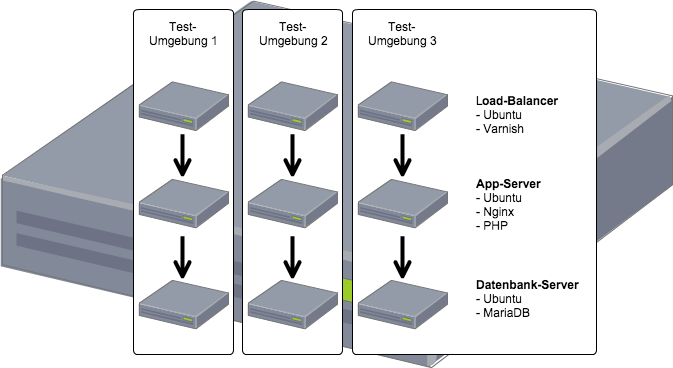
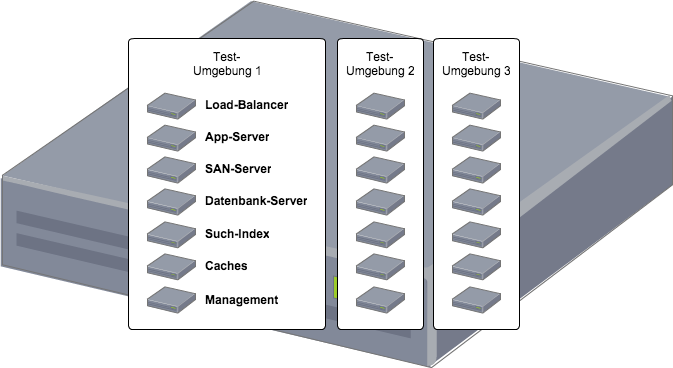
Zwischenstand

diff --git a/abschnitte/07_Konzeption.tex b/abschnitte/07_Konzeption.tex
@@ -1,10 +1,10 @@
 \section{Konzeption}
 
-Nachfolgend soll nun zunächst die aktuelle Produktiv- und die aktuellen Testumgebungen beschrieben werden. Anschließend soll eine Betriebsumgebung definiert werden, die im Rahmen dieser Arbeit die Lösbarkeit der bisherigen Probleme mit Hilfe der Virtualisierungstechnologien zeigen kann. Zudem sollen die eingangs in der Problemstellung angedeuteten Probleme bei der Ausführung von Tests genauer erläutert und durch eine stark vereinfachte Anwendung inklusive entsprechend vereinfachter Tests dargestellt werden. Anschließend kann dann für die beiden Produkte VirtualBox und Docker ein Konzept erarbeitet werden, wie sich diese Umgebung mit Hilfe der entsprechenden Technologie virtualisieren lässt, um damit die zuvor definierte Anwendung und ihre Tests erfolgreich auszuführen.
+Nachfolgend soll nun zunächst die aktuelle Produktiv- und die aktuellen Testumgebungen beschrieben werden. Anschließend soll ein neuer Ansatz für eine Testumgebung auf Basis einer Virtualisierung definiert werden, mit dessen Hilfe sich später eine konkrete Implementierung umsetzen lässt. Zudem sollen die eingangs in der Problemstellung angedeuteten Probleme aufgrund fehlender isolierter Testumgebungen bei der Ausführung von Tests genauer erläutert und durch die Definition eines entsprechenden Beispieltests dargestellt werden. Dieser Test soll auch als Grundlage für eine Evaluierung der konkreten Implementierungen in Bezug auf ihre Ausführungsdauer dienen.
 
 \subsection{Beschreibung der aktuellen Produktivumgebung}
 
-Die Betriebsumgebung die von der Pixelhouse GmbH in Produktion eingesetzt wird und täglich mehrere Millionen Anfragen von Besuchern der Webseite chefkoch.de beantwortet, besteht aus einer Vielzahl von Komponenten und Diensten. Bis auf die unternehmensweite Groupwarelösung (E-Mails, Kalender, etc.), die bereits als mehrere Dienste in Docker-Containern virtualisert wird, handelt es sich dabei um echte Maschinen, die jeweils auf ihrer eigenen Hardware laufen.
+Die Betriebsumgebung, die von der Pixelhouse GmbH in Produktion eingesetzt wird, besteht aus einer Vielzahl von Komponenten und Diensten. Diese Komponenten werden bislang jeweils auf echter Serverhardware betrieben.
 
 \begin{figure}[!ht]
   \begin{center}
@@ -13,7 +13,7 @@ Die Betriebsumgebung die von der Pixelhouse GmbH in Produktion eingesetzt wird u
   \end{center}
 \end{figure}
 
-Im Zentrum der Infrastruktur stehen insgesamt drei Appserver. Bei jedem Appserver handelt es sich dabei um einen Ubuntu-Server, auf dem der Webserver Nginx und der Script-Interpreter PHP ausgeführt wird, um HTTP-Anfragen mit Hilfe statischer oder dynamische Inhalte zu beantworten. Für die langfristige Datenhaltung greifen die PHP-Scripte dabei auf zwei Datenbankserver (Master und Slave) zu, auf denen ebenfalls Ubuntu und der Mysql-Fork MariaDB installiert sind. Für kurzfristige und hochverfügbare Datencaches gibt es zwei Ubuntu-Server (Master und Slave) auf denen der Key-Value-Store Redis läuft. Zudem wird auf weiteren zwei Ubuntu-Servern (Master und Slave) ein Such-Index mit Hilfe der Suchmaschine Solr betrieben, die als Java-Anwendung in einem Tomcat-Application-Server läuft. Binärdateien (Videos, Bilder, Dokumente, etc.) werden auf insgesamt 7 weiteren Servern redundant abgelegt. Damit die Appserver und die SAN-Server von außen unter einheitlichen HTTP-Adressen erreichbar sind und sich die Last gleichmäßig auf die einzelnen Server verteilt, landen sämtliche HTTP-Anfragen per DNS-Round-Robin zunächst bei einem von zwei Ubuntu-Servern, auf denen Varnish als Load-Balancer installiert ist. Diese nehmen die Anfragen entgegen und verteilen sie an die dahinter liegenden Server. Varnish ist zudem ein effizienter HTTP-Cache, der in der Lage ist, die von den App- oder SAN-Servern zurückgelieferten Antworten zu cachen und bei erneuter Anfrage selbst auszuliefern. Zu guter Letzt gibt es noch drei weitere Server, auf denen Software für die Administration und das Reporting läuft.
+Im Zentrum der Infrastruktur stehen insgesamt drei Appserver. Bei jedem Appserver handelt es sich dabei um einen Ubuntu-Server, auf dem der Webserver Nginx und der Script-Interpreter PHP ausgeführt wird, um HTTP-Anfragen mit Hilfe statischer oder dynamische Inhalte zu beantworten. Auf den App-Servern läuft somit auch die in PHP geschriebene Anwendung selbst. Für die langfristige Datenhaltung greifen die PHP-Scripte dabei auf zwei Datenbankserver (Master und Slave) zu, auf denen ebenfalls Ubuntu und der Mysql-Fork MariaDB installiert sind. Für kurzfristige und hochverfügbare Datencaches gibt es zwei Ubuntu-Server (Master und Slave) auf denen der Key-Value-Store Redis läuft. Zudem wird auf weiteren zwei Ubuntu-Servern (Master und Slave) ein Such-Index mit Hilfe der Suchmaschine Solr betrieben, die als Java-Anwendung in einem Tomcat-Application-Server läuft. Binärdateien (Videos, Bilder, Dokumente, etc.) werden auf insgesamt 7 weiteren Servern redundant abgelegt. Damit die Appserver und die SAN-Server von außen unter einheitlichen HTTP-Adressen erreichbar sind und sich die Last gleichmäßig auf die einzelnen Server verteilt, landen sämtliche HTTP-Anfragen per DNS-Round-Robin zunächst bei einem von zwei Ubuntu-Servern, auf denen Varnish als Load-Balancer installiert ist. Diese nehmen die Anfragen entgegen und verteilen sie an die dahinter liegenden Server. Varnish ist zudem ein effizienter HTTP-Cache, der in der Lage ist, die von den App- oder SAN-Servern zurückgelieferten Antworten zu cachen und bei erneuter Anfrage selbst auszuliefern. Zu guter Letzt gibt es noch drei weitere Server, auf denen Software für die Administration und das Reporting läuft.
 
 \subsection{Beschreibung der aktuellen Testumgebung}
 
@@ -30,12 +30,7 @@ Die aktuelle Testumgebung bringt Probleme in Bezug auf die Testbarkeit der Anwen
 
 \subsection{Definition einer verifizierbaren Testumgebung}
 
-Um nun eine zwar möglichst leicht zu implementierende, für die Darstellung der Lösbarkeit dieser Probleme aber hinreichende Umgebung zu definieren, werden folgende Änderungen vorgenommen:
-Zunächst wird die Anzahl gleicher Komponenten auf jeweils eins reduziert. Außerdem werden die Caches und der Such-Index ausgeblendet, da sie genau wie die Datenbankserver aus den Appserver heraus als Backend-Dienst abgefragt werden und lediglich eine andere Technologie beziehungsweise einen anderen Schwerpunkt der Datenhaltung widerspiegeln (Kurzfristigkeit und Durchsuchbarkeit). Zuletzt ignorieren wir im Rahmen dieser Arbeit die SAN- und Management-Server.
-
-Die von uns definierte Umgebung besteht somit lediglich aus einem Varnish-Load-Balancer, einem Nginx-Appserver, der den Script-Interpreter PHP ausführt und einen Maria-DB-Server, der aus PHP heraus als Backend-Dienst abgefragt werden kann.
-
-Eine solche Umgebung könnte nun mit Hilfe von Virtualisierung mehrmals parallel auf einer physischen Maschine gestartet werden.
+Ziel der neuen Testumgebung muss es sein, einen der Produktivumgebung entsprechenden Aufbau zu besitzen. So sollen alle in Produktion vorhandenen Komponenten mit Hilfe der Virtualisierung als eigenständige Maschinen dargestellt werden, auch wenn sie tatsächlich auf nur einer echten Hardware-Maschine laufen. Es muss außerdem möglich sein, mehrere dieser Testumgebungen parallel zu betreiben.
 
 \begin{figure}[!ht]
   \begin{center}
@@ -44,48 +39,17 @@ Eine solche Umgebung könnte nun mit Hilfe von Virtualisierung mehrmals parallel
   \end{center}
 \end{figure}
 
-\subsection{Definition von Anwendungs- und Testfällen}
+Tests, die gegen eine solche virtuelle Testumgebung gestartet werden, dürfen sich dabei nicht gegenseitig beinflussen. Das Aufsetzen und Entfernen einer Testumgebung muss programmatisch und mit überschaubarem Zeitaufwand möglich sein. Die tatsächliche Konfiguration der einzelnen Komponenten der Umgebung sollte dabei selbst unter Versionskontrolle gestellt werden können, um langfristig Änderungen an der Infrastruktur nachvollziehen zu können. "`The change should be made to version control and then applied through your automated process for deploying infrastructural changes."' \citep[S.][S. 287]{HumFar10}
+
+\subsection{Definition eines Testfalls}
 
 Für die Verifizierung der jeweiligen Testumgebungen ist es notwendig, eine andere PHP-Anwendung als die echte Anwendung der Webseite chefkoch.de zu verwenden. Zum einen ist die echte PHP-Anwendung auf dieser reduzierten Testumgebung nicht lauffähig. Zum anderen hat sie im Laufe der Jahre eine Komplexität erreicht, die es schwer macht, einen einfachen Anwendungsfall zu finden, der dennoch die Notwendigkeit von isolierten Testumgebungen aufzeigt.
 
 Es ist deshalb von Vorteil, im Rahmen dieser Arbeit neue PHP-Scripte mit einzelnen Anwendungsfällen zu definieren, die die zuvor angedeuteten Probleme beim Ausführen der Tests, die auf eine mangelnde Isolation einzelner Test-Umgebungen zurückzuführen sind, einfach provozieren. Passend dazu lassen sich dann ebenso einfache Testfälle definieren, die zeigen, ob die neue Testumgebungen mit Hilfe der Virtualisierungstechnologien die eingangs erläuterten Probleme einfach lösen.
 
-\subsubsection{Isolierte Testdaten in der Datenbank}
-
 Wir denken uns einen einfachen Anwendungsfall aus, der Daten derart in die Datenbank schreibt, dass es Einfluss auf andere Testumgebungen haben würde, wenn sich mehrere Testumgebungen die gleiche Datenbank teilen. Dazu reicht es zum Beispiel aus, einen einfachen Zähler zu implementieren. Dieser Zähler legt zunächst, falls noch nicht vorhanden, eine neue Tabelle an, die eine Integer-Spalte enthält und fügt einen Datensatz mit dem Wert 1 ein. Falls die Tabelle schon existiert, erhöht er den Wert um eins. Der aktuelle Wert wird anschließend ausgegeben. Dieser Anwendungsfall sollte also beim ersten Aufruf eine 1 ausgeben und bei jedem weiteren Aufruf einen um eins erhöhten Wert (2, 3, 4, 5...).
 
 Zum Test der Testdaten-Isolierung muss man nun lediglich zwei Testumgebungen anlegen und sicherstellen, dass beide Umgebungen unabhängig voneinander zählen.
-
-\subsubsection{Konfigurationsänderung im HTTP-Cache}
-
-Um eine Änderung am HTTP-Caching zu testen, brauchen wir zunächst ein einfaches PHP-Script, das zum einen die aktuelle Uhrzeit ausgibt und zum anderen einen HTTP-Cache-Header mitsendet, der HTTP-Caches dazu veranlasst, die HTTP-Antwort für 10 Sekunden zu cachen.
-Es ist nun per Varnish-Konfiguration möglich, diese HTTP-Header für bestimmte URLs zu berücksichtigen oder eben nicht.
-
-Damit sollte es möglich sein, eine Testumgebung zu starten, die beim Aufruf des PHP-Scriptes immer die aktuelle Uhrzeit anzeigt. Gleichzeitig muss es möglich sein, eine weitere Testumgebung zu starten, in der das gleiche HTTP-Cache nur alle 10 Sekunden die aktuelle Uhrzeit anzeigt.
-
-\subsubsection{Behat als Testframework}
-
-Natürlich ist es möglich, die zuvor beschriebenen Tests wie auch echte Tests zur Webseite chefkoch.de händisch durchzuführen. Vorgabe der Pixelhouse GmbH ist es aber, die Durchführung von Tests zu automatisieren. Die Pixelhouse GmbH hat sich bei der Wahl eines entsprechenden Testframeworks für das Tool Behat entschieden. Dies liegt zum einen daran, dass Behat selbst auch in der Programmiersprache PHP geschrieben ist und somit die notwendige Kompetenz zur Implementierung solcher Testfälle bereits vorhanden ist. Behat ist außerdem ein sogenanntes Behaviour-Driven-Development Tool. Dies meint, dass die eigentliche Definition der Testfälle in Form von menschenlesbarem Text erfolgt, der das gewünschte Verhalten der Anwendung beschreibt \citep[Vgl.][]{Behat15}.
-
-\begin{figure}[!ht]
-  \begin{center}
-    \begin{gherkincode}
-Feature: Counter
-  In order to know how often I visited the counter page
-  the counter has to increase with every visit
-
-  Scenario:
-    Given I open "/counter.php"
-    Then I should see "1"
-    When I reload the page
-    Then I should see "2"
-
-    \end{gherkincode}
-    \caption{Beispiel-Feature für den Zähler}
-  \end{center}
-\end{figure}
-
-Solche Feature oder auch User Story genannten Beschreibungen werden von der Pixelhouse GmbH bereits im Rahmen ihrer Entwicklungsmethode Scrum verwendet, um die Kommunikation zwischen Produktmanagement und Entwicklern zu formalisieren.
 
 \subsection{Verwendete Virtualisierungslösungen}
 

diff --git a/abschnitte/06_Grundlagen.tex b/abschnitte/06_Grundlagen.tex
@@ -55,7 +55,7 @@ Innerhalb der Informatik spricht man immer dann von Virtualität oder Virtualisi
 
 Der für diese Arbeit interessante Bereich der Virtualisierung ist das Bereitstellen virtueller Betriebsumgebungen. Eine Betriebsumgebung meint die Umgebung, die ein Programm für seine Ausführung benötigt. Dazu gehören vor allem bestimmte Hardware-Bauteile (Prozessoren, Arbeitsspeicher, Festplatten, Netzwerk-Adapter), ein Betriebssystem und eventuell zusätzliche Anwendungsprogramme, mit denen das Programm interagiert. Für gewöhnlich läuft eine solche Betriebsumgebung genau auf einem Rechner (zum Beispiel Server oder Desktoprechner). Mit Hilfe der Virtualisierung ist es nun aber möglich, mehrere solcher Betriebsumgebungen auf dem gleichen Rechner laufen zu lassen. Dabei wird der Betriebsumgebung eben nur vorgespielt, auf einem eigenen Rechner zu laufen \citep[Vgl.][Abstract]{DamMohAnd12}.
 
-Es gibt verschiedene Ziele, die man mit der Virtualisierung von Betriebsumgebungen verfolgen kann. Zum einen lässt sich eine effizientere Nutzung der Ressourcen erreichen. Da die tatsächliche Hardware abstrahiert wird, kann diese durch das hinzufügen weiterer Betriebsumgebungen vollständig ausgenutzt werden. Eine Firma könnte also zum Beispiel für jeden Mitarbeiter eine Arbeitsumgebung auf einem zentralen Server starten. Da diese nur Ressourcen verbraucht, wenn der Mitarbeiter tatsächlich arbeitet, kommt man unterm Strich mit weniger Hardwareressourcen aus, als wenn man jedem Mitarbeiter einen echten eigenen Rechner zur Verfügung stellt. Der Betrieb und die Wartung von virtuellen Arbeitsumgebungen lässt sich dabei auch besser planen und einfacher durchführen. Außerdem ist in den letzten Jahren das Mieten solcher zentralen Hardwareressourcen populär geworden. Man spricht hierbei auch gerne von sogenannten Cloud-Anbietern oder Cloud-Lösungen. In diesem Falle würde die Hardware erst gar nicht eingekauft und selbst betrieben oder gewartet werden. Dies würde dann in den Aufgabenbereich des Dienstleisters fallen, der (oft minutengenau abgerechnet) nur die tatsächliche Nutzung der Ressourcen in Rechnung stellt \citep[Vgl.][S. 7]{ZhaChe14}.
+Es gibt verschiedene Ziele, die man mit der Virtualisierung von Betriebsumgebungen verfolgen kann. Zum einen lässt sich eine effizientere Nutzung der Ressourcen erreichen. Da die tatsächliche Hardware abstrahiert wird, kann diese durch das hinzufügen weiterer Betriebsumgebungen vollständig ausgenutzt werden. Eine Firma könnte also zum Beispiel für jeden Mitarbeiter eine Arbeitsumgebung auf einem zentralen Server starten. Da diese nur Ressourcen verbraucht, wenn der Mitarbeiter tatsächlich arbeitet, kommt man unterm Strich mit weniger Hardwareressourcen aus, als wenn man jedem Mitarbeiter einen echten eigenen Rechner zur Verfügung stellt. Der Betrieb und die Wartung von virtuellen Arbeitsumgebungen lässt sich dabei auch besser planen und einfacher durchführen. Außerdem ist in den letzten Jahren das Mieten solcher zentralen Hardwareressourcen populär geworden. Man spricht hierbei auch gerne von sogenannten Cloud-Anbietern oder Cloud-Lösungen. "`The defining characteristic of cloud computing is that the computing resources you use, such as CPU, memory, storage, and so on, can expand and contract to meet your need, an you pay only for what you use."' \citep[S.][S. 312]{HumFar10} In diesem Falle würde die Hardware erst gar nicht eingekauft und selbst betrieben oder gewartet werden. Dies würde dann in den Aufgabenbereich des Dienstleisters fallen, der (oft minutengenau abgerechnet) nur die tatsächliche Nutzung der Ressourcen in Rechnung stellt \citep[Vgl.][S. 7]{ZhaChe14}.
 
 Ein weiteres Ziel der Virtualisierung von Betriebsumgebungen ist die Trennung beziehungsweise Isolierung verschiedener Anwendungen \citep[Vgl.][Abstract]{Schee14}. Statt zum Beispiel auf einem Server einen Datenbankserver zu installieren, in dem mehrere Mitarbeiter oder auch Kunden ihre Datenbanken pflegen, kann man mit Hilfe von Virtualisierungsansätzen einfach für jeden Anwender einen eigenen Datenbankserver laufen lassen. Zwar bieten Datenbankserver natürlich auch innerhalb einer Instanz die Möglichkeit, den Zugriff auf einzelne Datenbanken zu begrenzen. Die Konfiguration solcher Zugriffsberechtigungen kann aber komplex sein und ist somit fehleranfällig. Gerade aus Sicherheitsgründen kann es somit lohnenswert sein, Anwendungen bereits auf Betriebsumgebungsebene voneinander zu trennen. Zudem gibt es Anwendungen, die selbst keine differenzierbaren Zugriffskonzepte kennen und somit so oder so für jeden Anwender separat gestartet werden müssen. Die eingangs beschriebenen Probleme bei der Testausführung für die Anwendung der Webseite Chefkoch.de lassen sich, wie wir später noch einmal im Detail sehen werden, auf solche mangelnde Isolation zwischen den Anwendungsteilen zurückführen.
 

diff --git a/abschnitte/08_Implementierung.tex b/abschnitte/08_Implementierung.tex
@@ -130,3 +130,28 @@ mariadb:
 \end{figure}
 
 Anschließend lässt sich die Umgebung mit dem einfachen Befehl "`fig up"' starten.
+
+\subsection{Implementierung des Testfalls}
+
+Natürlich ist es möglich, die zuvor beschriebenen Tests wie auch echte Tests zur Webseite chefkoch.de händisch durchzuführen. Vorgabe der Pixelhouse GmbH ist es aber, die Durchführung von Tests zu automatisieren. Die Pixelhouse GmbH hat sich bei der Wahl eines entsprechenden Testframeworks für das Tool Behat entschieden. Dies liegt zum einen daran, dass Behat selbst auch in der Programmiersprache PHP geschrieben ist und somit die notwendige Kompetenz zur Implementierung solcher Testfälle bereits vorhanden ist. Behat ist außerdem ein sogenanntes Behaviour-Driven-Development Tool. Dies meint, dass die eigentliche Definition der Testfälle in Form von menschenlesbarem Text erfolgt, der das gewünschte Verhalten der Anwendung beschreibt \citep[Vgl.][]{Behat15}.
+
+\begin{figure}[!ht]
+  \begin{center}
+    \begin{gherkincode}
+Feature: Counter
+  In order to know how often I visited the counter page
+  the counter has to increase with every visit
+
+  Scenario:
+    Given I open "/counter.php"
+    Then I should see "1"
+    When I reload the page
+    Then I should see "2"
+
+    \end{gherkincode}
+    \caption{Beispiel-Feature für den Zähler}
+  \end{center}
+\end{figure}
+
+Solche Feature oder auch User Story genannten Beschreibungen werden von der Pixelhouse GmbH bereits im Rahmen ihrer Entwicklungsmethode Scrum verwendet, um die Kommunikation zwischen Produktmanagement und Entwicklern zu formalisieren.
+
